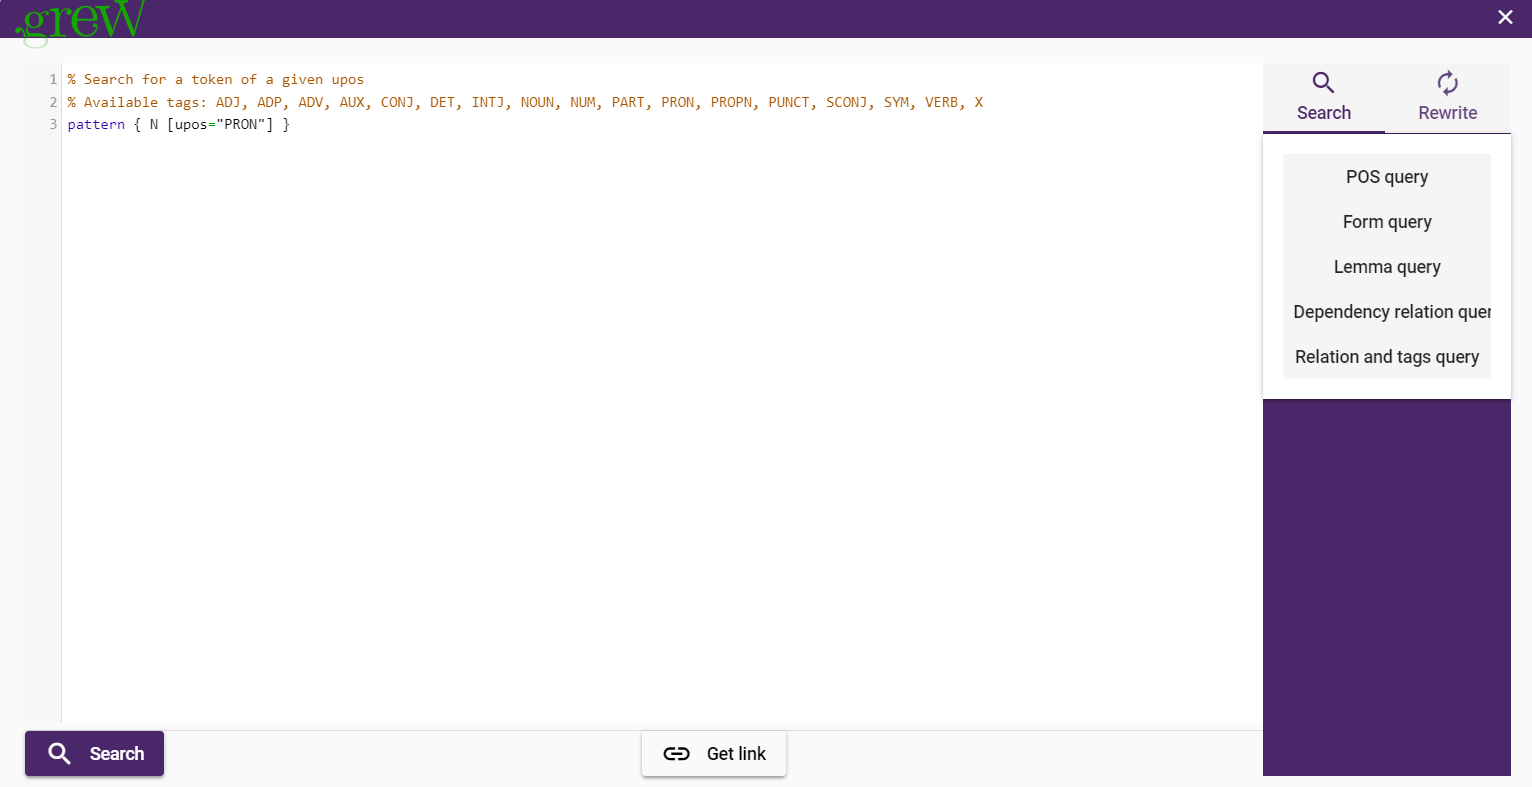
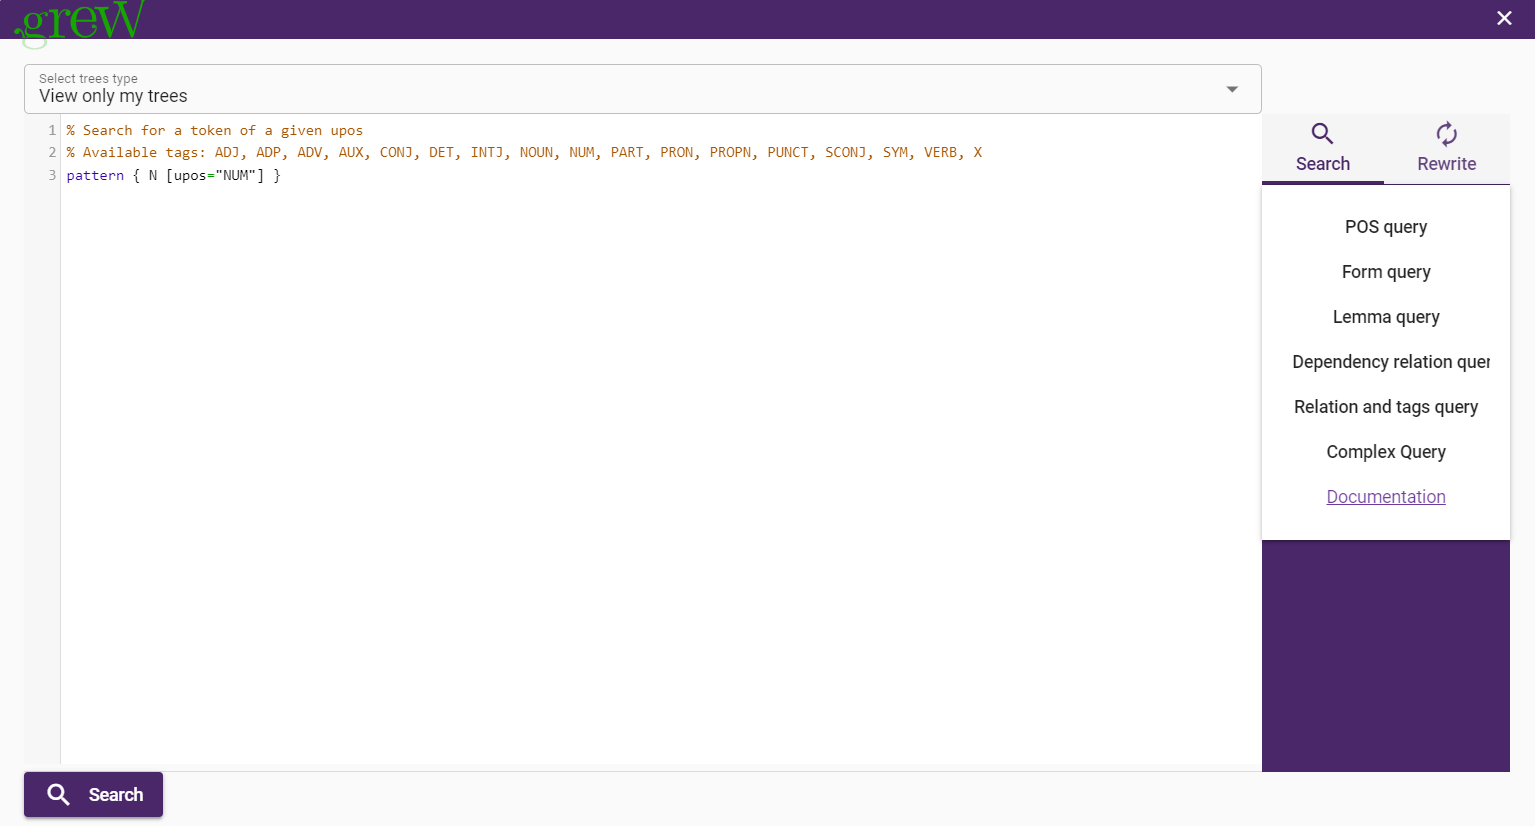
Add: show divergence doc

diff --git a/README.md b/README.md
@@ -26,9 +26,6 @@ creating, updating, maintaining, and curating syntactic treebanks and semantic g
 > **[Arborator Grew](https://arboratorgrew.elizia.net/#/)** is adapted better to
 **[UD Universal Dependencies](https://universaldependencies.org/)** (Treebank annotation grammar) and **[SUD Surface Syntactic Universal Dependencies](https://surfacesyntacticud.github.io/)** (Distribution based version of UD).
 
-
-
-
 # User Guide 
 
 ## Login 
@@ -144,10 +141,9 @@ There is a toolbar located on the top  left of the document area. From it the us
 
 - Each time a change is made in the tree (e.g. new annotation or relation added), yellow diskette will appear to indicate there are changes to **save**. Click on the **Save button** to **save** the changes. 
 
-- You can edit,remove or split tokens either by selecting the sentence or using the edit icon.
+- You can activate the difference mode to highlight annotation differences between annotators in the tree structure. This feature can also be activated directly by right-clicking on the user for which you look for differences.  
 
 - You have also the possibility to get a direct `link`, `SVG` file and `CONLL` of the tree.
-
 
 <div style="text-align:center">
       <img src="assets/images/4-Functionnalities.png" alt="drawing" width="400"/>
@@ -161,14 +157,13 @@ There is a toolbar located on the top  left of the document area. From it the us
 
 
 
-
 ## Advanced Options
 
 ### Grew search
 
 One of the powerful features of Arborator grew is the pattern matching system. Arborator uses **[Grew](https://grew.fr/)**.
 
-?> You can search based on `POS query`, `Form query`, `Lemma query`, `Dependency relation query` and `Relation and tags query`
+?> You can search based on `POS query`, `Form query`, `Lemma query`, `Dependency relation query` and `Relation and tags query` on the selected trees type.
 
 <div style="text-align:center">
       <img src="assets/images/5-Grew-search.png" alt="drawing" width="900"/>
@@ -185,6 +180,14 @@ trees on the results page.
 !> In order to detect the errors, it can filter out these results based on negative
 patterns (patterns that must not appear in the graph). Once the faulty tree has been found, it  can then directly be
 edited and saved.
+
+You can also display divergences between user annotations using the "Show divergences" option, based on specific features. You must therefore first select a set of features and a set of users for whom you are looking for differences. The user set must contain at least two users. The feature set can be empty, in which case ArboratorGrew will detect any differences that exist between user trees. 
+Once the result are displayed activate the diff mode to highlight those divergences.
+
+<div style="text-align:center">
+      <img src="assets/images/26-show-divergences.png" alt="drawing" width="600"/>
+</div>
+
 #### Apply rules
 
 With Arborator Grew you can rewrite a rule (see **[Grew Rules](https://grew.fr/doc/rule/)**). 
